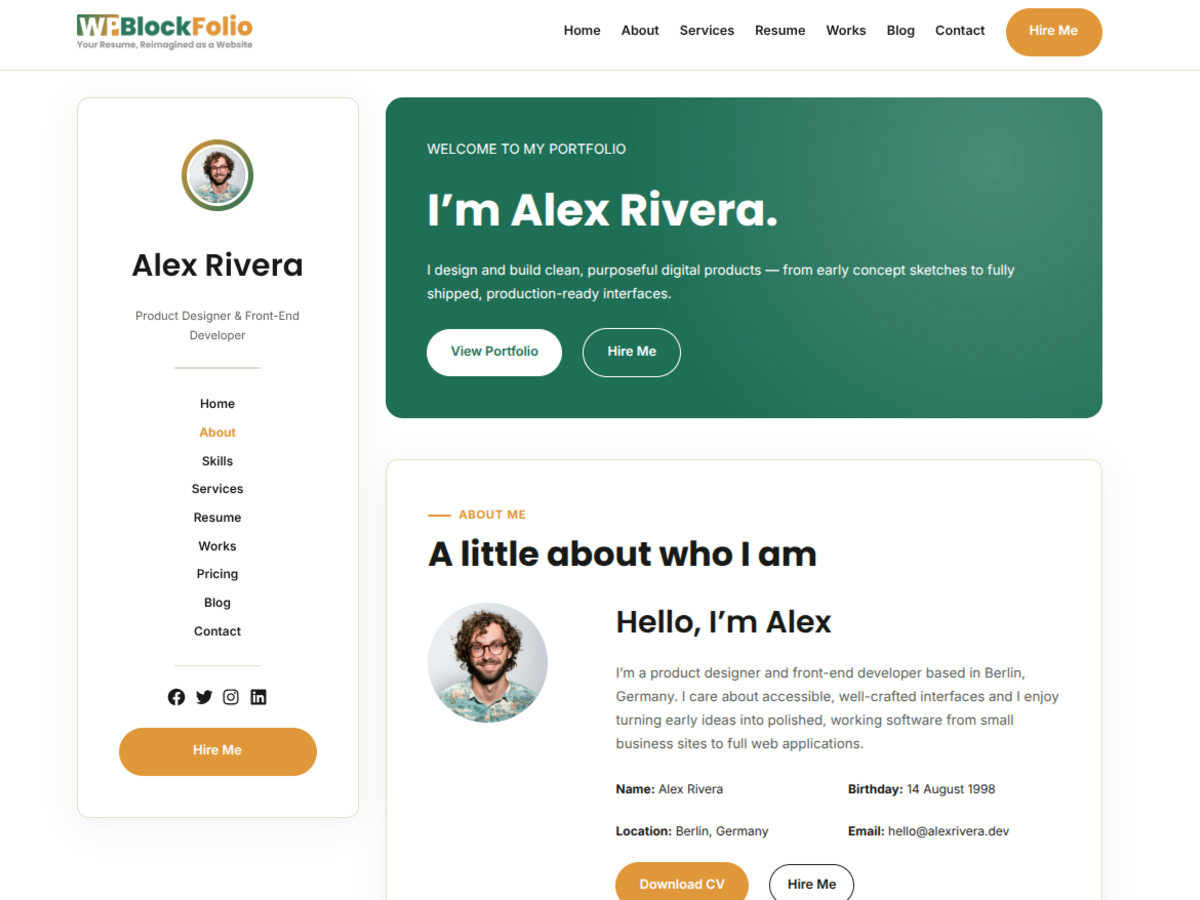
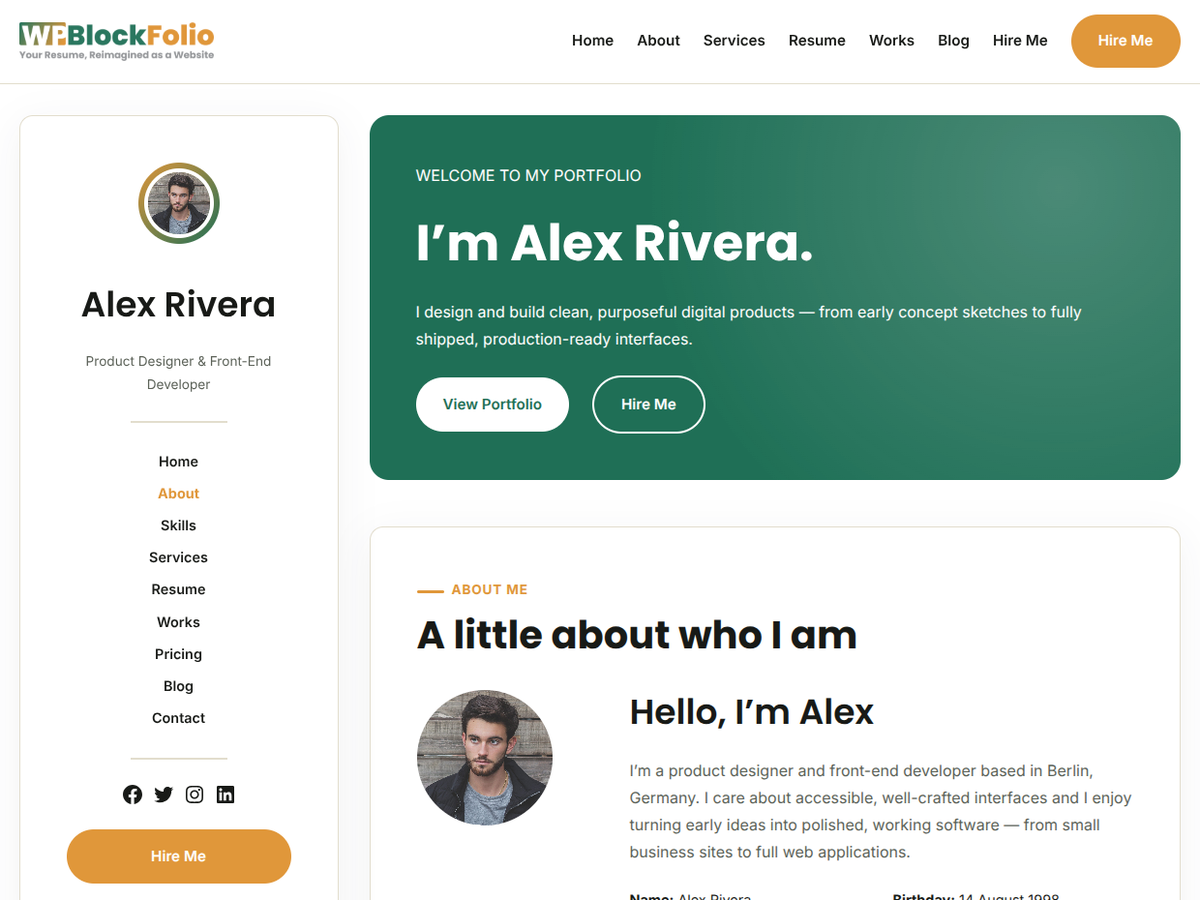
changed screenshot image

diff --git a/style.css b/style.css
@@ -7,7 +7,7 @@ Description: A clean, professional one-page portfolio & resume block theme for f
 Requires at least: 6.4
 Tested up to: 7.1
 Requires PHP: 7.4
-Version: 1.0.3
+Version: 1.0.2
 License: GPLv3 or later
 License URI: https://www.gnu.org/licenses/gpl-3.0.en.html
 Text Domain: wpblockfolio

diff --git a/functions.php b/functions.php
@@ -9,7 +9,7 @@ if ( ! defined( 'ABSPATH' ) ) {
 	exit; // Exit if accessed directly.
 }
 
-define( 'WPBLOCKFOLIO_VERSION', '1.0.3' );
+define( 'WPBLOCKFOLIO_VERSION', '1.0.2' );
 
 /**
  * Register theme supports, image sizes, translations, and editor styles.
